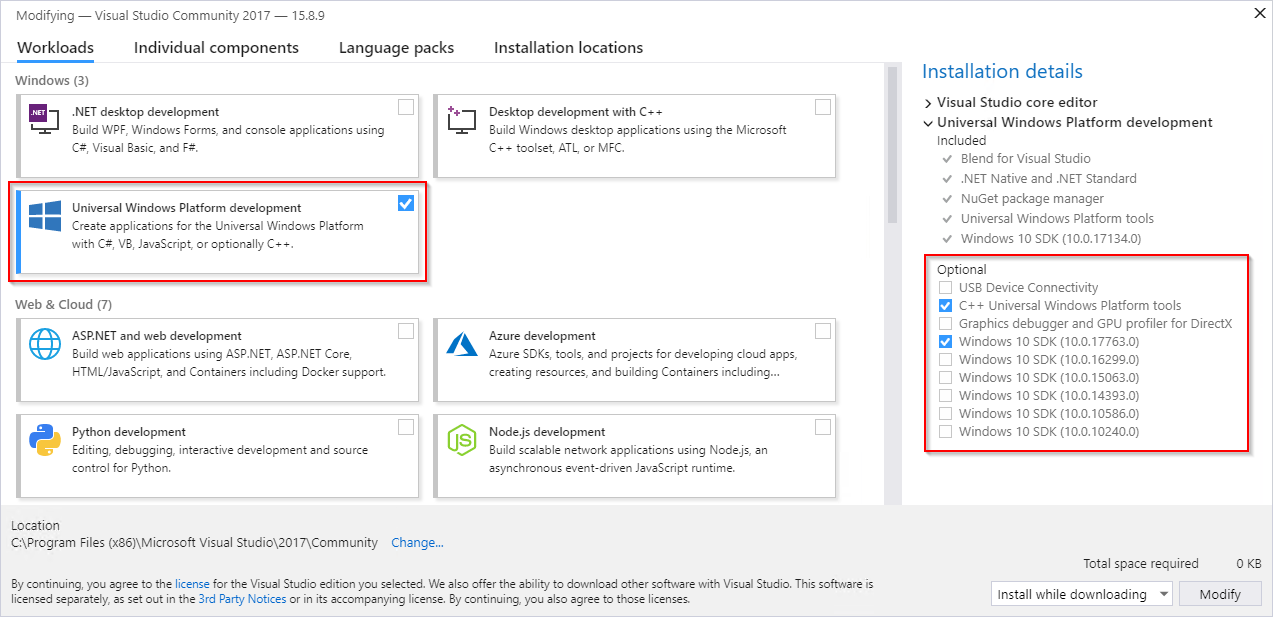
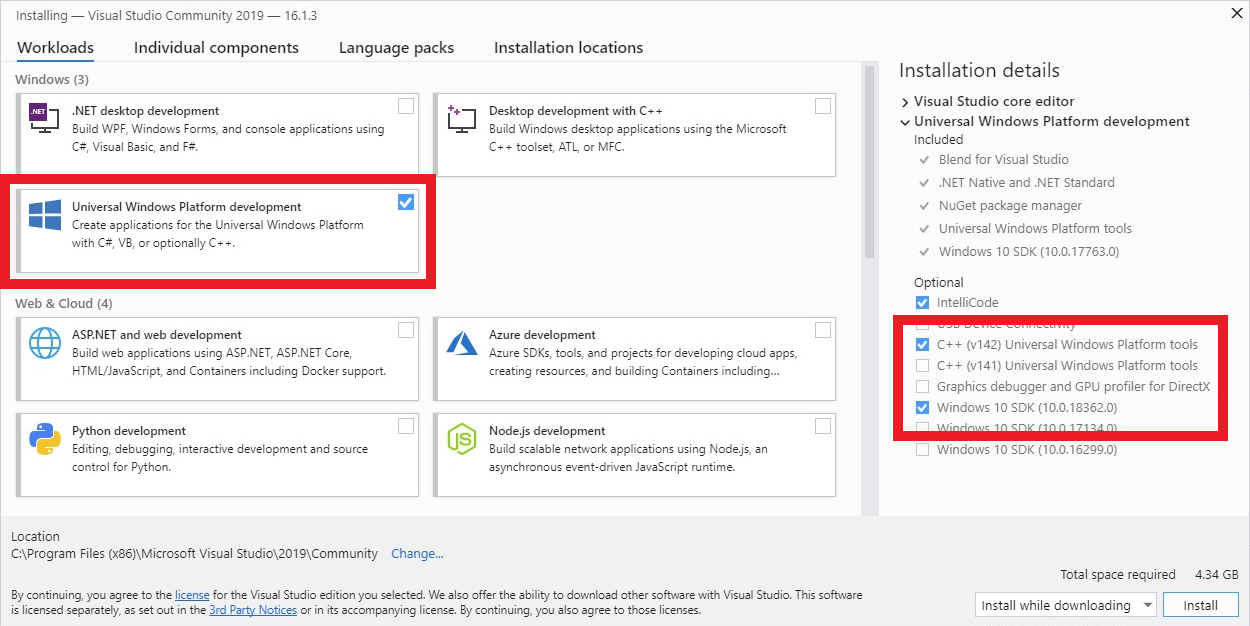
Update to v142 build tools for Visual Studio 2019 (#548)
* Update to build tools v142
* Update official build pipelines to use VS2019
* Update instructions to suggest updating to VS2019

diff --git a/src/Calculator/App.xaml.cpp b/src/Calculator/App.xaml.cpp
@@ -165,6 +165,7 @@ task<void> App::HandleViewReleaseAndRemoveWindowFromMap(_In_ WindowFrameService 
         task_continuation_context::use_arbitrary());
 }
 
+#pragma optimize("", off) // Turn off optimizations to work around coroutine optimization bug
 task<void> App::SetupJumpList()
 {
     try
@@ -190,7 +191,8 @@ task<void> App::SetupJumpList()
     catch (...)
     {
     }
-}
+};
+#pragma optimize("", on)
 
 void App::RemoveSecondaryWindow(_In_ WindowFrameService ^ frameService)
 {

diff --git a/src/CalcViewModel/Common/Utils.cpp b/src/CalcViewModel/Common/Utils.cpp
@@ -50,8 +50,7 @@ double Utils::GetDoubleFromWstring(wstring input)
 {
     wchar_t unWantedChars[] = { L' ', L',', 8234, 8235, 8236, 8237 };
     wstring ws = RemoveUnwantedCharsFromWstring(input, unWantedChars, 6);
-    string inputString(ws.begin(), ws.end());
-    return ::atof(inputString.c_str());
+    return stod(ws);
 }
 
 // Returns windowId for the current view
